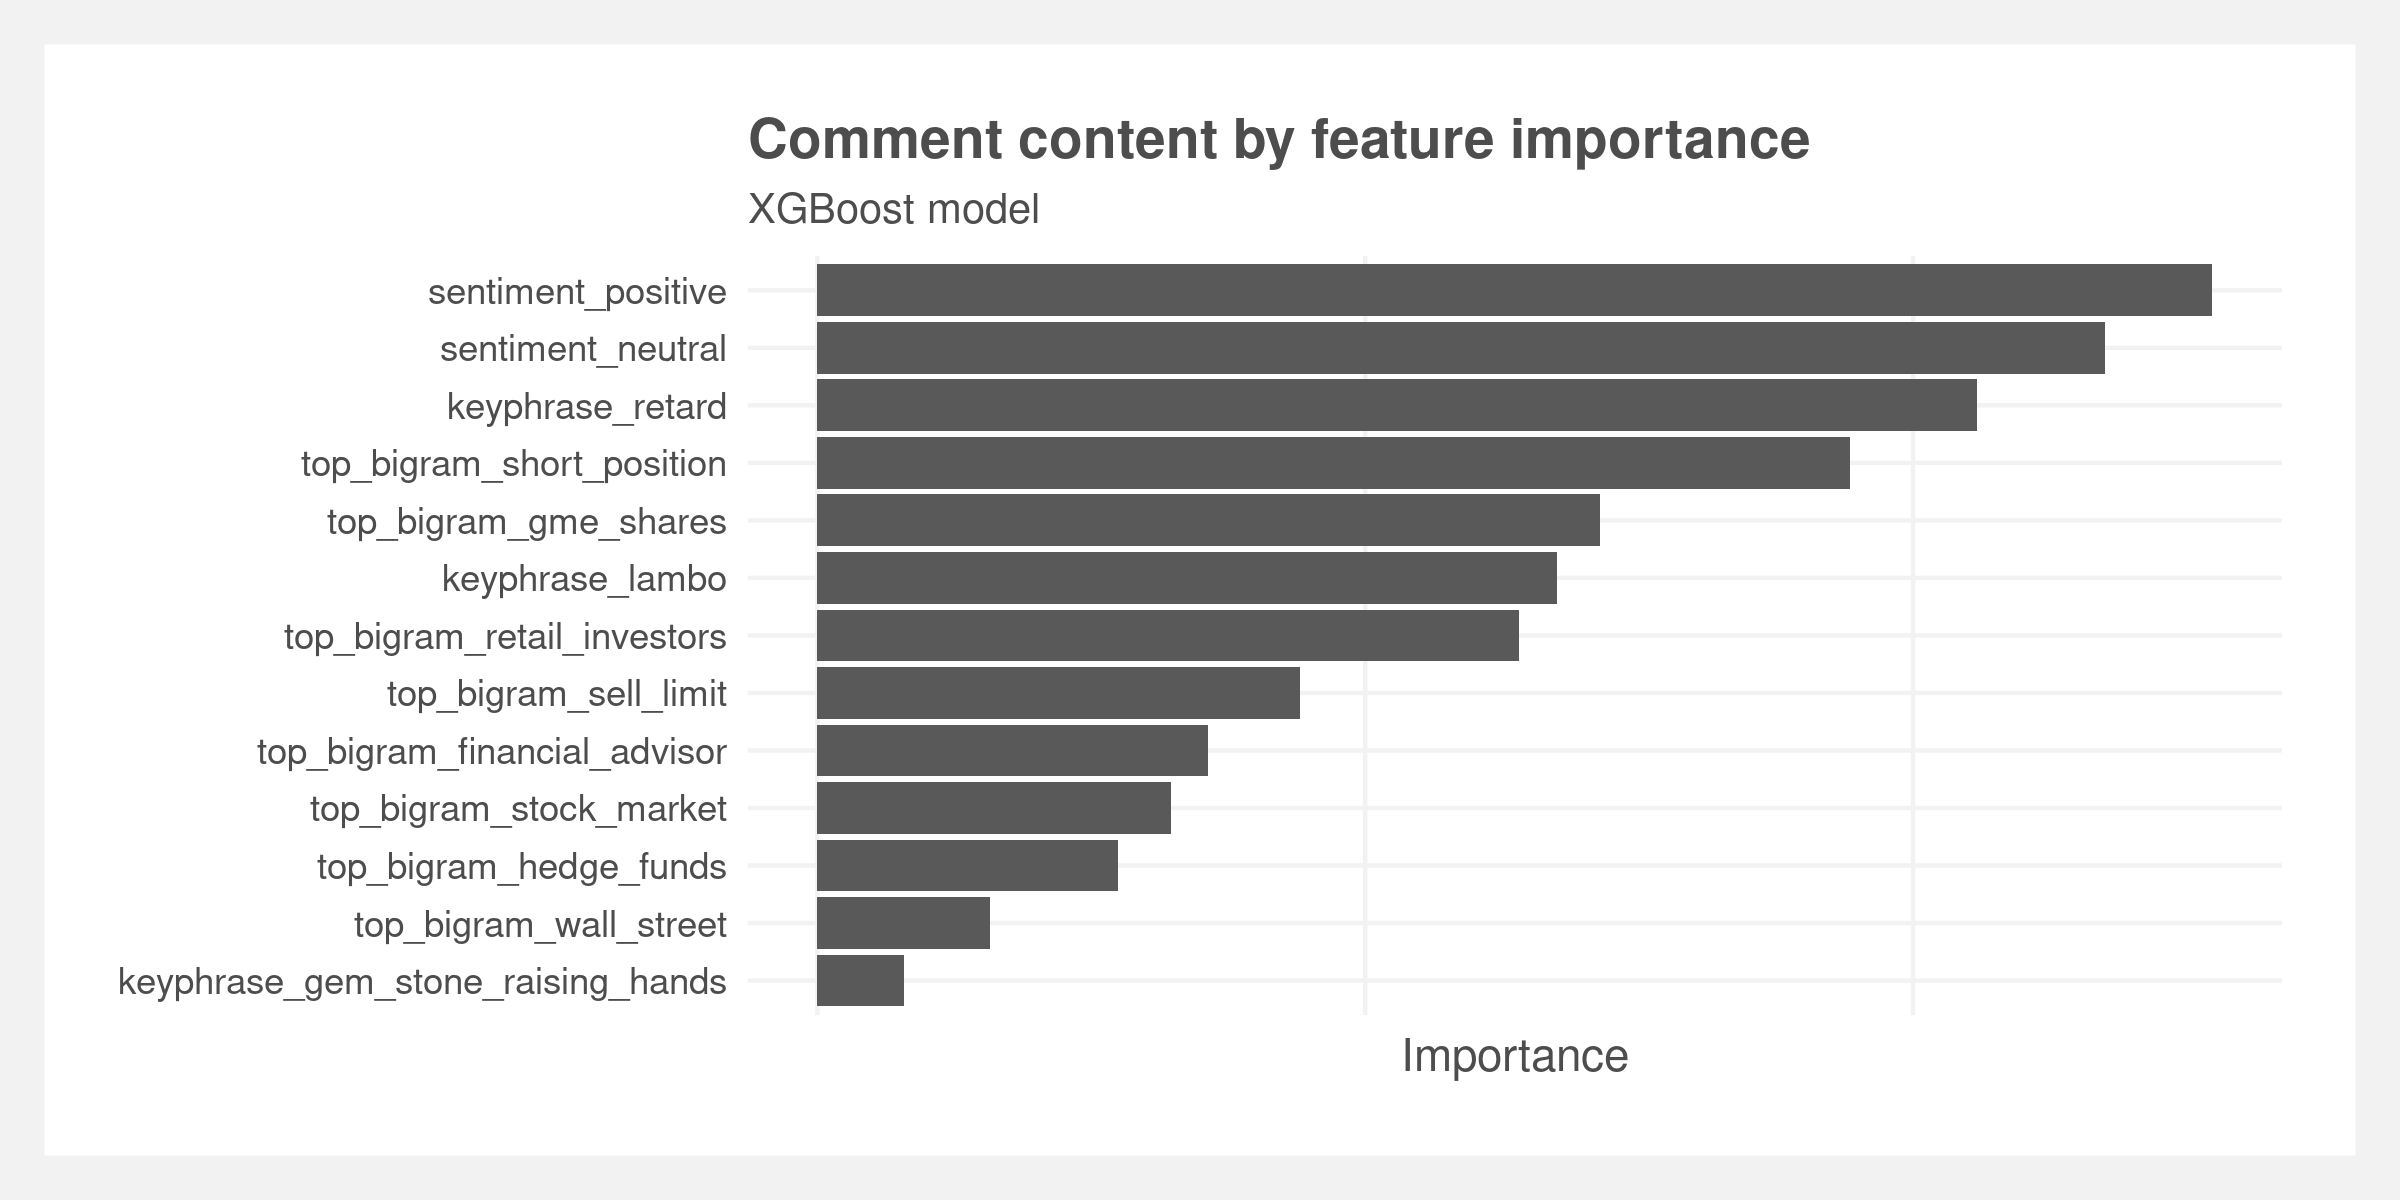
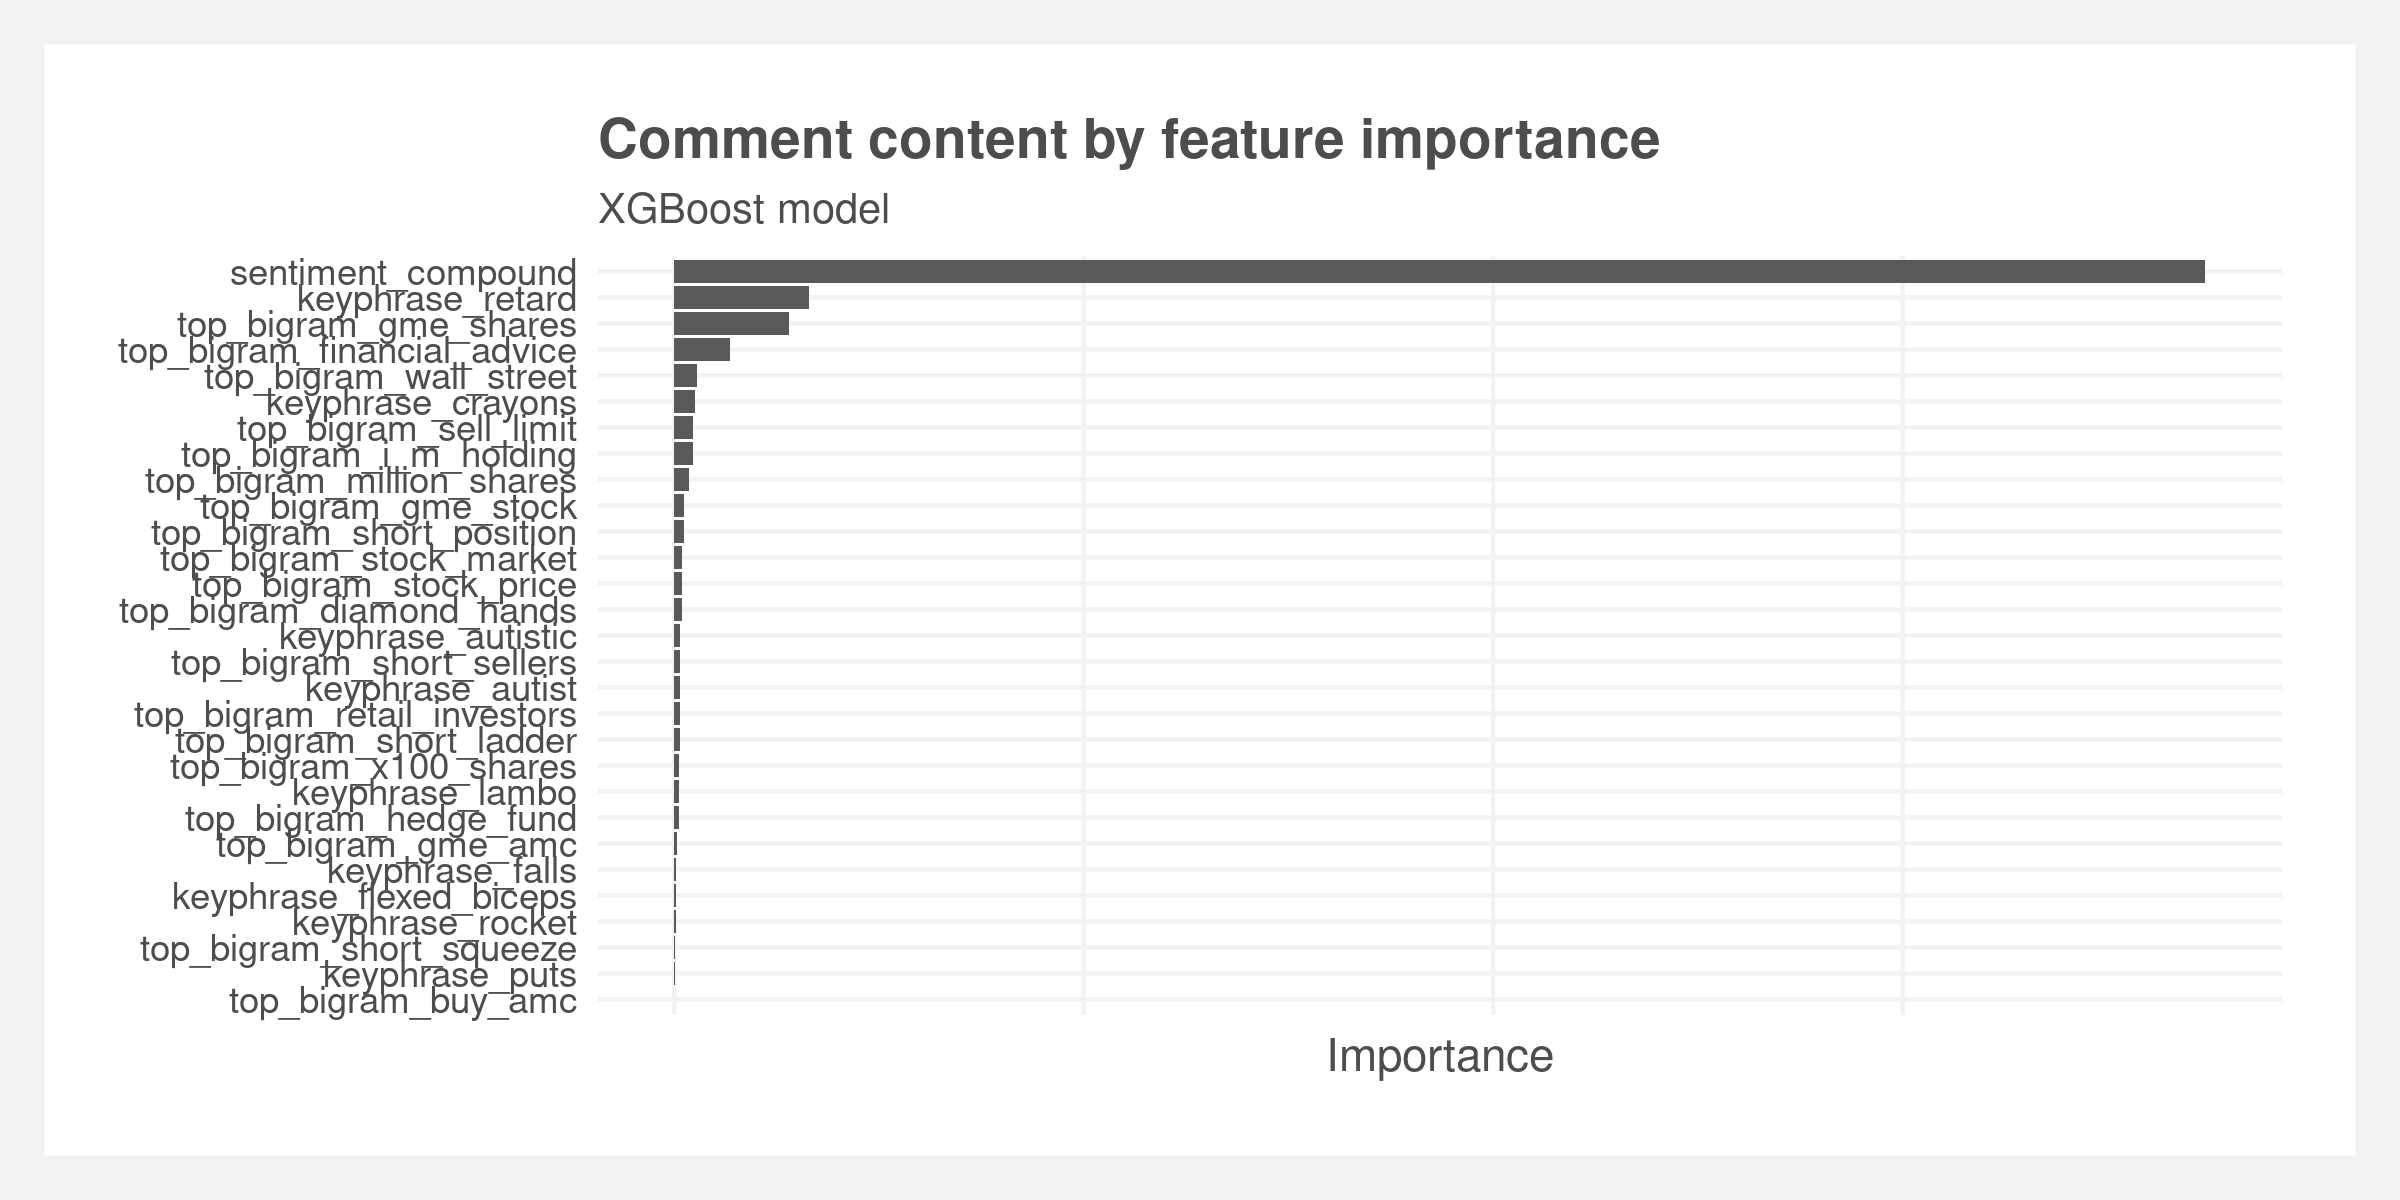
updated readme; tuned xgb; added residuals comparison

Changed region(s): [[0.0312, 0.2158, 0.9375, 0.8633], [0.25, 0.0925, 0.75, 0.185], [0.5312, 0.8633, 0.6875, 0.8942]]

diff --git a/README.md b/README.md
@@ -23,7 +23,7 @@ Final project for NYU Messy Data and Machine Learning class. Contains explicit l
 ## Folder structure
 
     .
-    ├── analyses          # Model fitting, validation, and performance estimates
+    ├── analyses          # Feature engineering, model fitting, and performance estimates
     │   └── plots         # Plots
     ├── data              # Cleaned data and cleaning scripts
     ├── inputs            # Raw input data and scraping scripts
@@ -39,7 +39,8 @@ To reproduce, run the scripts in the following order:
 3.  Features: 
     1. `analyses/topic_modeling.R`  
     2. `analyses/sentiment_scoring.py`  
-    3. `analyses/comment_hierarchy.R`  
+    3. `analyses/GME_price.R`  
+    4. `analyses/comment_hierarchy.R`  
 4. `analyses/feature_engineering.R`  
 5. `analyses/feature_selection.R`  
 6. `analyses/create_train_test_split.R`
